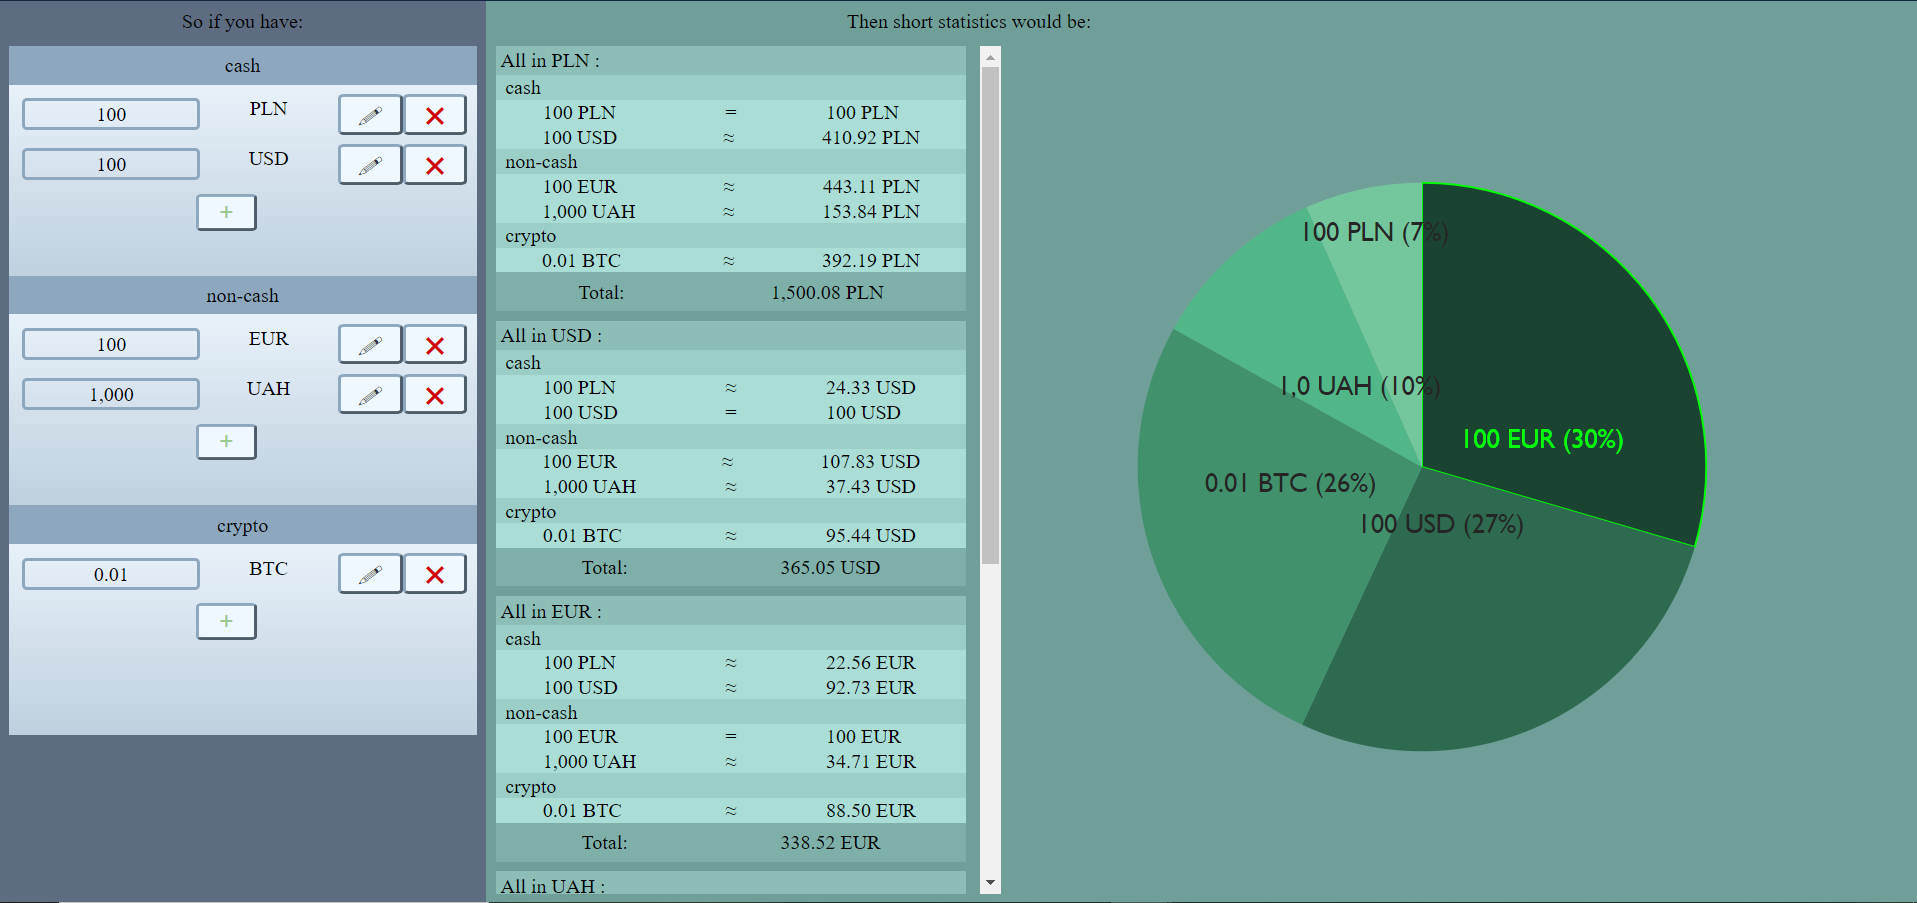
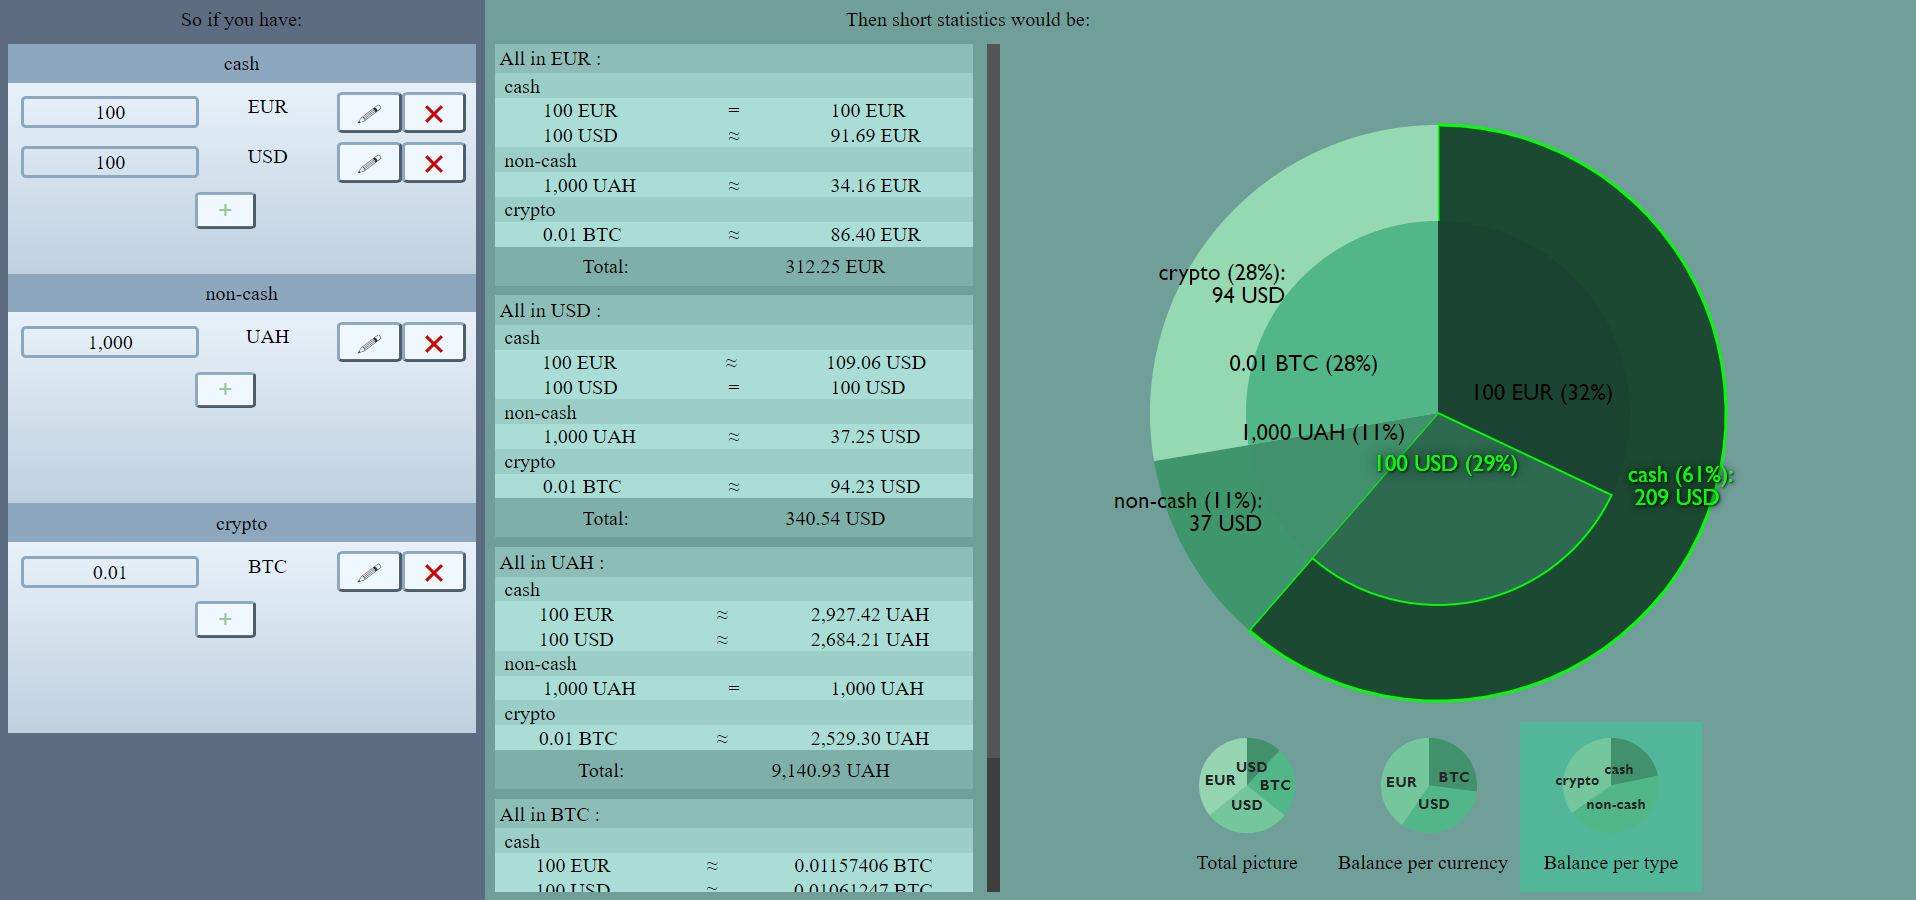
Better look

diff --git a/src/components/ResultsWrapper.js b/src/components/ResultsWrapper.js
@@ -296,6 +296,7 @@ export default class ResultsWrapper extends React.Component {
                                         top: "14%",
                                         right: "10%",
                                         width: "30%",
+                                        height: "10%",
                                         position: "absolute",
                                     },
                                     labels: {
@@ -315,7 +316,7 @@ export default class ResultsWrapper extends React.Component {
                                     const maxRadius = this.state.chartType === "per-type" ? 80 : 60;
                                     const elementsCount = e.data.length;
 
-                                    if (e.index === elementsCount - 1) {
+                                    if (e.index === elementsCount - 1 && this.state.chartType !== "per-type") {
                                         return maxRadius
                                     }
 
